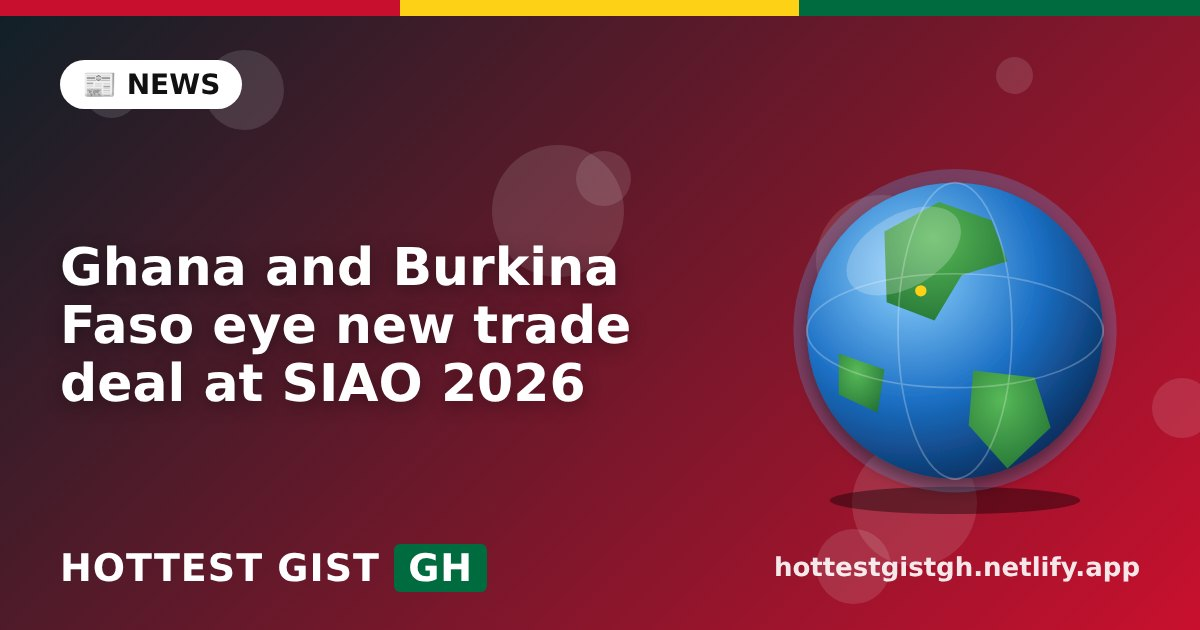
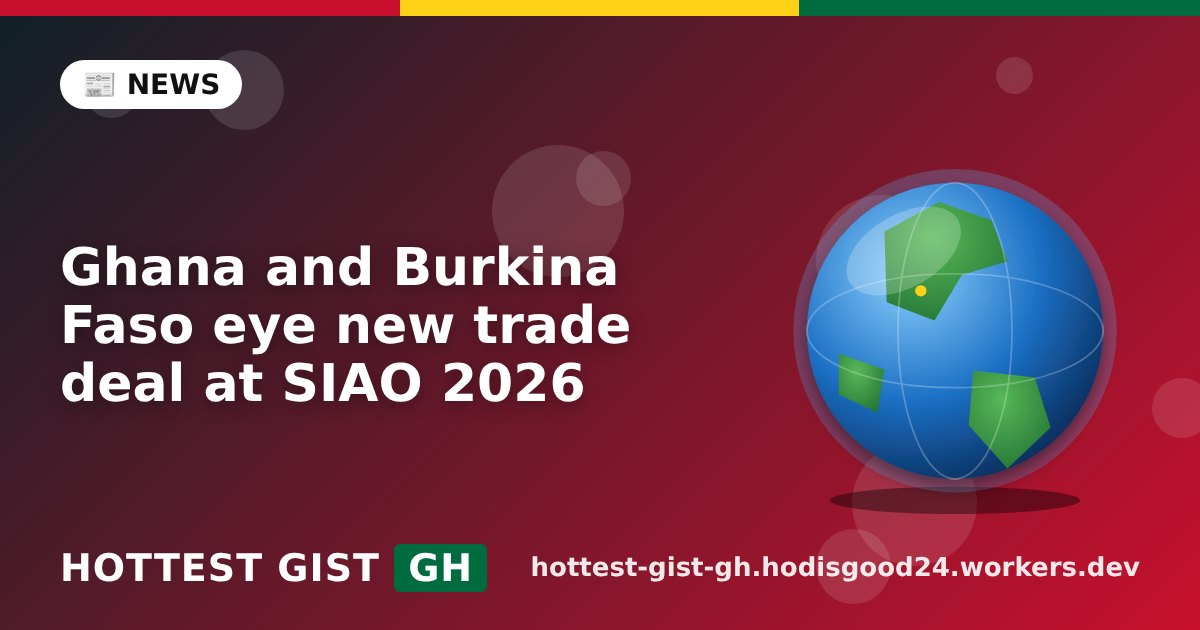
Switch site address to Cloudflare Workers
Claude-Session: https://claude.ai/code/session_01BXd4B9AEnZGQEtneuyL2Ve

Changed region(s): [[0.4317, 0.8746, 0.9558, 0.9349]]

diff --git a/index.html b/index.html
@@ -9,24 +9,24 @@
 <meta name="keywords" content="Hottest Gist GH, Ghana music, Ghana entertainment, Afrobeats, highlife, Ghana news, Ghana concerts, trending in Ghana">
 <meta name="robots" content="index,follow,max-image-preview:large">
 <meta name="theme-color" content="#c8102e">
-<link rel="canonical" href="https://hottestgistgh.netlify.app/">
+<link rel="canonical" href="https://hottest-gist-gh.hodisgood24.workers.dev/">
 <link rel="icon" href="/favicon.svg" type="image/svg+xml">
 <link rel="icon" href="/favicon-32.png" sizes="32x32" type="image/png">
 <link rel="icon" href="/favicon.ico" sizes="48x48">
 <link rel="apple-touch-icon" href="/apple-touch-icon.png">
 <link rel="manifest" href="/site.webmanifest">
-<script type="application/ld+json">{"@context":"https://schema.org","@graph":[{"@type":"WebSite","name":"Hottest Gist GH","alternateName":["Hottest Gist","HottestGistGH"],"url":"https://hottestgistgh.netlify.app/","description":"Latest Ghana music, entertainment and trending news."},{"@type":"Organization","name":"Hottest Gist GH","url":"https://hottestgistgh.netlify.app/","logo":"https://hottestgistgh.netlify.app/icon-512.png"}]}</script>
+<script type="application/ld+json">{"@context":"https://schema.org","@graph":[{"@type":"WebSite","name":"Hottest Gist GH","alternateName":["Hottest Gist","HottestGistGH"],"url":"https://hottest-gist-gh.hodisgood24.workers.dev/","description":"Latest Ghana music, entertainment and trending news."},{"@type":"Organization","name":"Hottest Gist GH","url":"https://hottest-gist-gh.hodisgood24.workers.dev/","logo":"https://hottest-gist-gh.hodisgood24.workers.dev/icon-512.png"}]}</script>
 <meta property="og:title" content="Hottest Gist GH | Ghana Music, Entertainment and News">
 <meta property="og:site_name" content="Hottest Gist GH">
 <meta property="og:description" content="The latest Ghana music, movies, concerts and trending news, every day.">
 <meta property="og:type" content="website">
-<meta property="og:url" content="https://hottestgistgh.netlify.app/">
-<meta property="og:image" content="https://hottestgistgh.netlify.app/images/og-logo.png">
+<meta property="og:url" content="https://hottest-gist-gh.hodisgood24.workers.dev/">
+<meta property="og:image" content="https://hottest-gist-gh.hodisgood24.workers.dev/images/og-logo.png">
 <meta property="og:image:width" content="1200">
 <meta property="og:image:height" content="630">
 <meta name="twitter:card" content="summary_large_image">
 <meta name="twitter:title" content="Hottest Gist GH">
-<meta name="twitter:image" content="https://hottestgistgh.netlify.app/images/og-logo.png">
+<meta name="twitter:image" content="https://hottest-gist-gh.hodisgood24.workers.dev/images/og-logo.png">
 <link rel="preconnect" href="https://fonts.googleapis.com">
 <link rel="preconnect" href="https://fonts.gstatic.com" crossorigin>
 <link rel="stylesheet" href="https://fonts.googleapis.com/css2?family=Anton&family=Public+Sans:wght@400;600;700;800&display=swap">

diff --git a/tools/cover.py b/tools/cover.py
@@ -132,7 +132,7 @@ def make(title, cat, out):
     <div style="position:absolute;left:60px;right:480px;top:150px;bottom:130px;display:flex;align-items:center;
       font:800 {size}px/1.12 'DejaVu Sans',sans-serif;text-shadow:0 4px 18px rgba(0,0,0,.35)">{html.escape(title)}</div>
     <div style="position:absolute;left:60px;bottom:40px;font:800 38px 'DejaVu Sans',sans-serif;letter-spacing:1px">HOTTEST GIST <span style="background:#006b3f;padding:2px 14px;border-radius:6px">GH</span></div>
-    <div style="position:absolute;right:60px;bottom:48px;font:700 26px 'DejaVu Sans',sans-serif;opacity:.9">hottestgistgh.netlify.app</div>
+    <div style="position:absolute;right:60px;bottom:48px;font:700 26px 'DejaVu Sans',sans-serif;opacity:.9">hottest-gist-gh.hodisgood24.workers.dev</div>
     </div></body></html>"""
     with sync_playwright() as p:
         br = p.chromium.launch()
